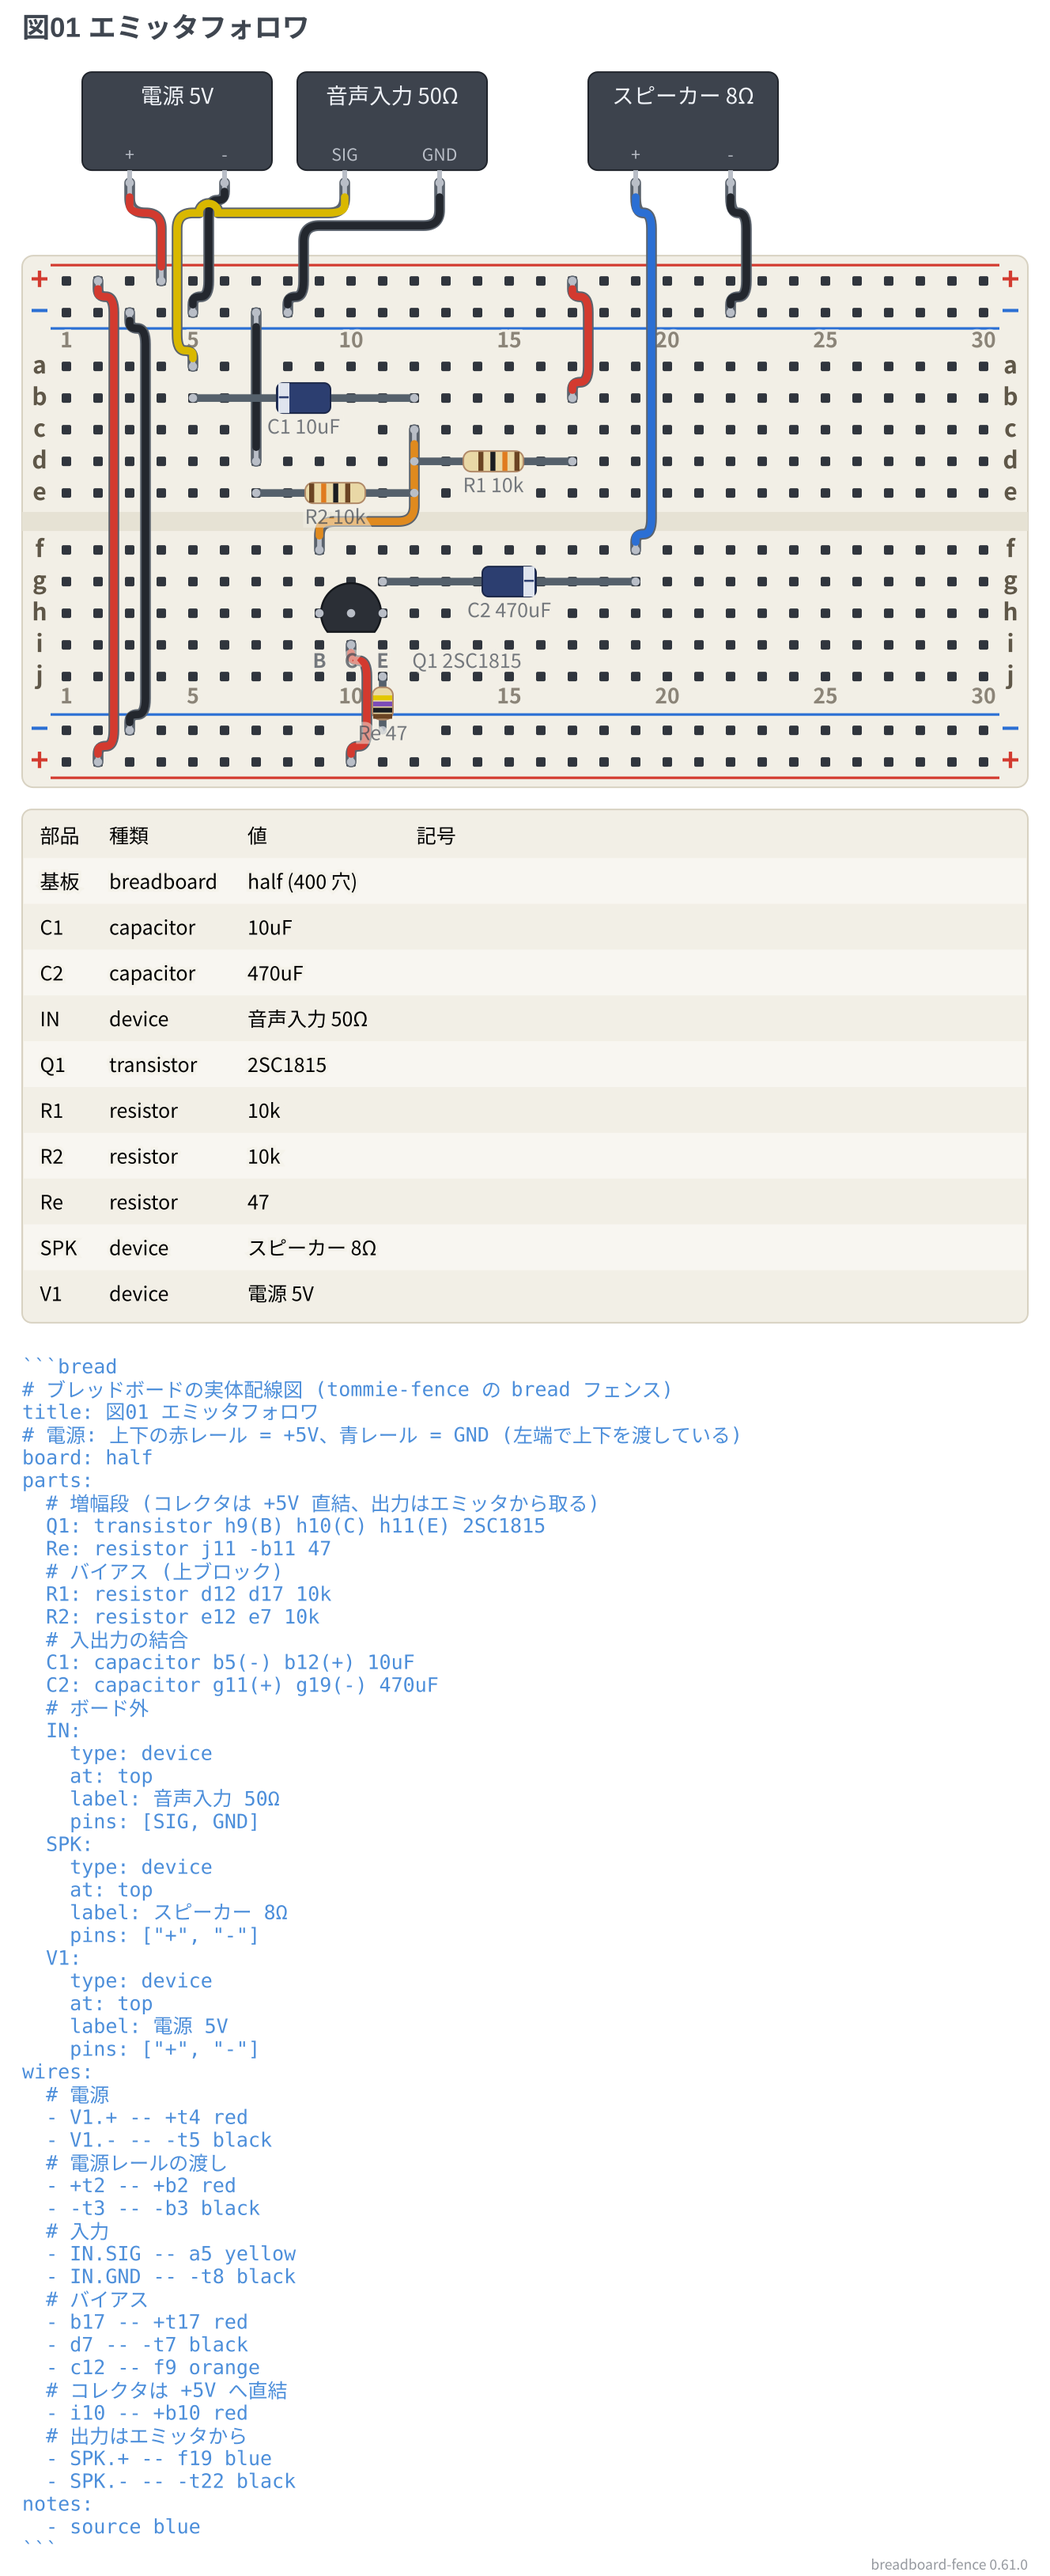
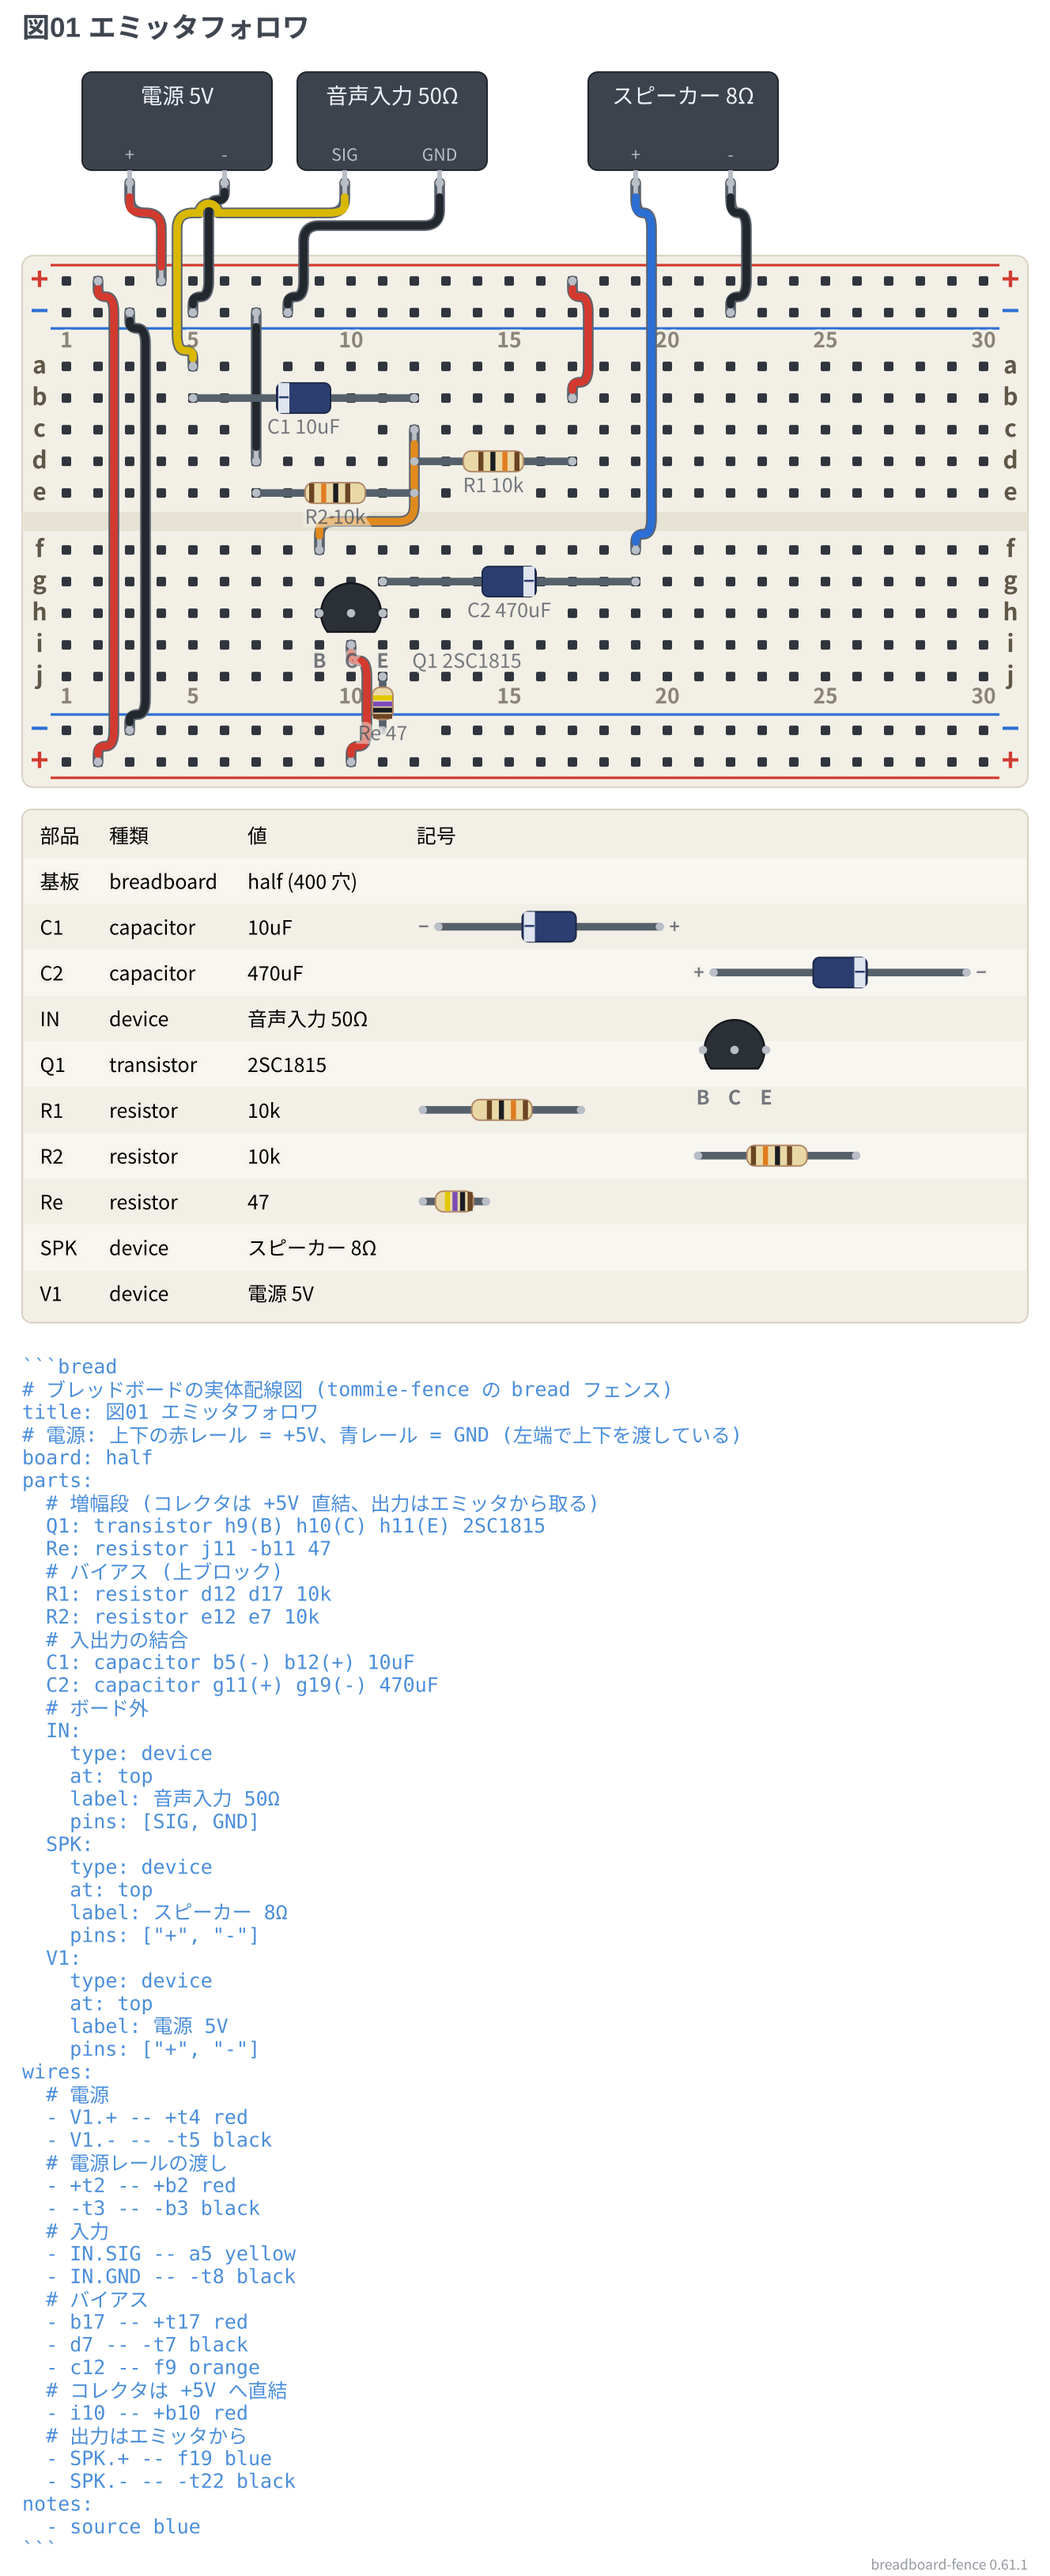
fix: 部品表の記号の欄が空になる件と、短いフィルムの刷り込みの抜けを直す
長い部品があると絵の 2 列が表の幅に収まらず、全部の絵を消していた。
収まらないときは長い部品のリードを詰め、それでも入らなければ値の欄の
長い説明を切る。列の幅は左右それぞれの列にある絵だけで測る。
レールと行の間に縦に挿したフィルムコンデンサは、字を小さくして刷る。

🤖 Generated with [Claude Code](https://claude.com/claude-code)

diff --git a/packages/breadboard-fence/src/core/render/partsList.ts b/packages/breadboard-fence/src/core/render/partsList.ts
@@ -2,7 +2,7 @@ import { PARTS_SYMBOL_HEADING_BY_LANG, bandColor, partKind, partsMark, valueWith
 import type { Lang, PartsMark } from 'fence-kit';
 import type { Layout } from '../model/layout.ts';
 import { partsLabels } from './labels.ts';
-import { partsIcon } from './partsListIcons.ts';
+import { partsIcon, partsIconsWithin } from './partsListIcons.ts';
 import type { PartsIcon } from './partsListIcons.ts';
 import { LIMITS } from '../limits.ts';
 import { fit, textWidth } from './textFit.ts';
@@ -43,6 +43,18 @@ const SYMBOL_LINE_RATIO = 1.5;
  * (実機で「次の行は水平にずらし、2 行の高さで」と頼まれた。1 行の高さでは刷り込みが読めなかった)。
  */
 const ICON_ROWS = 2;
+
+/**
+ * 絵を入れるために値の欄を切るときの下限 (字の大きさに対する比)。`Analog Discovery 3` が切れずに読める幅。
+ * これより狭くしないと絵が入らない図は、値を読めるほうを取って絵の欄を空ける。
+ */
+const MIN_VALUE_WIDTH = 10;
+
+/** 値の欄の幅の候補。今の幅から下限まで 1 字ぶんずつ。 */
+const valueCandidates = (full: number): readonly number[] => [
+  full,
+  ...Array.from({ length: Math.max(0, Math.floor(full - MIN_VALUE_WIDTH)) }, (_, index) => full - index - 1),
+];
 
 /** 同じ列の上下の絵との間に残す隙間 (px)。 */
 const ICON_CLEARANCE = 1;
@@ -221,11 +233,11 @@ export function renderPartsList(
   // 表から部品を探すので名前の順に並べる (数字は数として: R2 の次は R10)。上限で切る前に並べる。
   const shown = shownOf(parts);
   const icons = iconsOf(shown, layout, theme, mode);
-  const listed = rowsOf(shown, lang).map((row, index) => (symbols ? { ...row, icon: icons[index] ?? null } : row));
+  const listed = rowsOf(shown, lang);
   const hidden = parts.length - listed.length;
   // 先頭は見出し。基板は最初に用意する物なので、名前の順には入れず見出しのすぐ下に置く。上限の数にも数えない。
   const heading = headingRow(lang);
-  const rows = [
+  const textRows: readonly Row[] = [
     symbols ? { ...heading, mark: PARTS_SYMBOL_HEADING_BY_LANG[lang] } : heading,
     ...(board === null ? [] : [boardRow(board, lang)]),
     ...listed,
@@ -238,7 +250,7 @@ export function renderPartsList(
   // 基板は基板と同じ色で塗る。`board-color` を変えたときに印字の色が追従する仕掛け
   // (theme.ts の inkFor) にそのまま相乗りできるため。字の縁取りは cell が敷く。
   const plate = element('rect', {
-    x: num(x), y: num(y), width: num(width), height: num(plateHeight(rows.length + (hidden === 0 ? 0 : 1), theme, mode, hidden === 0 ? icons : [...icons, null], atLeast)), rx: 6,
+    x: num(x), y: num(y), width: num(width), height: num(plateHeight(textRows.length + (hidden === 0 ? 0 : 1), theme, mode, hidden === 0 ? icons : [...icons, null], atLeast)), rx: 6,
     fill: palette.plate, stroke: palette.plateEdge,
   });
 
@@ -251,27 +263,52 @@ export function renderPartsList(
   // ID は図の部品と突き合わせるための鍵なので切らない。フェンスから来る ID は
   // 英数字 32 文字までで、いちばん狭い基板でも収まる (room はコアの API を直に
   // 呼ばれたときの保険で、フェンス経由では効かない)。
-  const idWidth = Math.min(widest(rows.map((row) => row.id)), room(idX));
+  const idWidth = Math.min(widest(textRows.map((row) => row.id)), room(idX));
 
   const typeX = idX + (idWidth + COLUMN_GAP) * textSize;
   const typeRoom = room(typeX);
-  const typeWidth = Math.min(widest(rows.map((row) => row.type)), MAX_TYPE_WIDTH, typeRoom);
+  const typeWidth = Math.min(widest(textRows.map((row) => row.type)), MAX_TYPE_WIDTH, typeRoom);
 
   const valueX = typeX + (typeWidth + COLUMN_GAP) * textSize;
   const valueRoom = room(valueX);
-  const valueWidth = Math.min(widest(rows.map((row) => row.value)), valueRoom);
+  const fullValueWidth = Math.min(widest(textRows.map((row) => row.value)), valueRoom);
+
+  // 絵は行の偶奇で左右の列に分かれる。列の幅はそれぞれの列にある絵だけで測る。
+  const listedFrom = textRows.length - listed.length;
+  const iconColumns = (candidates: readonly (PartsIcon | null)[]): readonly [number, number] => {
+    const widthOn = (parity: number): number => Math.max(0, ...candidates
+      .filter((_, offset) => (offset + listedFrom) % 2 === parity)
+      .map((icon) => icon?.width ?? 0));
+    return [widthOn(0), widthOn(1)];
+  };
+  const markRoomFor = (value: number): number => room(valueX + (value + COLUMN_GAP) * textSize);
+  const iconsFitIn = (candidates: readonly (PartsIcon | null)[], markSpace: number): boolean => {
+    const [left, right] = iconColumns(candidates);
+    return (left + right) / textSize + ICON_COLUMN_GAP <= markSpace;
+  };
+  const iconsAt = (value: number): readonly (PartsIcon | null)[] =>
+    partsIconsWithin(shown, layout as Layout, theme, (candidates) => iconsFitIn(candidates, markRoomFor(value)));
+  // リードを詰めても入らない図だけ、値の欄の長い説明を 1 字ぶんずつ切っていく。
+  const valueWidth = symbols
+    ? valueCandidates(fullValueWidth).find((value) => iconsFitIn(iconsAt(value), markRoomFor(value))) ?? fullValueWidth
+    : fullValueWidth;
 
   const markX = valueX + (valueWidth + COLUMN_GAP) * textSize;
   const markRoom = room(markX);
+  const fitted = symbols ? iconsAt(valueWidth) : [];
+  const rows: readonly Row[] = textRows.map((row, index) =>
+    symbols && index >= listedFrom ? { ...row, icon: fitted[index - listedFrom] ?? null } : row);
 
   const baselineOf = (index: number): number => y + pad + textSize * CAP_RATIO + line * index;
   /**
    * 絵は基板と同じ大きさのまま、その行の字の高さの真ん中に合わせて置く。
-   * 行の番号の偶奇で左右の列を替える (インターリーブ)。右の列は、いちばん幅のある絵の右から。
+   * 行の番号の偶奇で左右の列を替える (インターリーブ)。右の列は、左の列でいちばん幅のある絵の右から。
    */
-  const widestIcon = Math.max(0, ...rows.map((row) => row.icon?.width ?? 0));
-  const secondX = markX + widestIcon + ICON_COLUMN_GAP * textSize;
-  const iconsFit = (secondX + widestIcon - markX) / textSize <= markRoom;
+  // 右の列は普段は「いちばん幅のある絵」の右に置く。それでは入らない図だけ、左の列の幅まで寄せる。
+  const widestIcon = Math.max(...iconColumns(fitted));
+  const leftColumn = (widestIcon * 2) / textSize + ICON_COLUMN_GAP <= markRoom ? widestIcon : iconColumns(fitted)[0];
+  const secondX = markX + leftColumn + ICON_COLUMN_GAP * textSize;
+  const iconsFit = iconsFitIn(fitted, markRoom);
   const placeIcon = (icon: PartsIcon, index: number): string => {
     const top = baselineOf(index) - (textSize * CAP_RATIO) / 2 - icon.height / 2;
     const left = index % 2 === 0 ? markX : secondX;
@@ -300,7 +337,7 @@ export function renderPartsList(
       ...(typeRoom < MIN_COLUMN_WIDTH ? [] : [cell(typeX, baseline, fit(row.type, typeWidth), ink)]),
       ...(row.value === '' || valueRoom < MIN_COLUMN_WIDTH
         ? []
-        : [cell(valueX, baseline, fit(row.value, valueRoom), ink)]),
+        : [cell(valueX, baseline, fit(row.value, valueWidth), ink)]),
       ...(row.icon !== undefined
         ? (row.icon === null || !iconsFit ? [] : [placeIcon(row.icon, index)])
         : row.mark.length === 0 || markRoom < MIN_COLUMN_WIDTH || markWidth(row.mark) > markRoom

diff --git a/packages/breadboard-fence/src/core/render/partsListIcons.ts b/packages/breadboard-fence/src/core/render/partsListIcons.ts
@@ -59,6 +59,18 @@ function lieFlat(part: PlacedPart, layout: Layout): PlacedPart {
   };
 }
 
+/**
+ * 横に寝かせた 2 ピンの間を `maxSpan` 穴まで詰める。胴の大きさはこの範囲で変わらない
+ * (リードが短くなるだけ) ので、絵の高さと行の送りも変わらない。番地は表の絵のためだけのもの。
+ */
+function withinSpan(part: PlacedPart, maxSpan: number): PlacedPart {
+  if (part.kind !== 'two-lead' || part.pins.length !== 2) return part;
+  const [a, b] = part.pins.map((pin) => pin.address);
+  if (a?.kind !== 'hole' || b?.kind !== 'hole' || a.row !== b.row || Math.abs(b.col - a.col) <= maxSpan) return part;
+  const col = a.col + Math.sign(b.col - a.col) * maxSpan;
+  return { ...part, pins: part.pins.map((pin, index) => (index === 1 ? { ...pin, address: { ...b, col } } : pin)) };
+}
+
 const union = (rects: readonly Rect[]): Rect | null => {
   if (rects.length === 0) return null;
   const left = Math.min(...rects.map((rect) => rect.x));
@@ -167,9 +179,9 @@ const poleText = (pole: Pole, theme: RenderTheme): string =>
  * 表に置く絵。描かない種類 (機器と DIP と、Pico などのマイコンボード — 型番の欄で足り、絵は幅を
  * 取りすぎる。ボードは 1 つで全部の行の送りを広げてしまう) と、番地の決まらない部品は null。
  */
-export function partsIcon(part: PlacedPart, layout: Layout, theme: RenderTheme): PartsIcon | null {
+export function partsIcon(part: PlacedPart, layout: Layout, theme: RenderTheme, maxSpan = Infinity): PartsIcon | null {
   if (part.kind === 'device' || part.kind === 'dip' || part.kind === 'board') return null;
-  const flat = lieFlat(part, layout);
+  const flat = withinSpan(lieFlat(part, layout), maxSpan);
   const poles = polePlaces(flat, layout, theme);
   const box = boxOf(flat, layout, theme, poles);
   if (box === null) return null;
@@ -180,4 +192,25 @@ export function partsIcon(part: PlacedPart, layout: Layout, theme: RenderTheme):
     width: box.width,
     height: box.height,
   };
+}
+
+/** これより短くするとリードが胴に隠れて、部品の姿が基板と違って見える。 */
+const MIN_ICON_SPAN = 3;
+
+/**
+ * 表の欄に収まる絵 (収まるかは `fits` が決める)。長い部品が 1 つあるだけで全部の絵が欄から消えないよう、
+ * 収まらないときは**長い部品のリードだけ**を、収まるぎりぎりの長さまで詰める。
+ * 詰めても収まらなければそのままの絵を返す (表の側で欄を空ける)。
+ */
+export function partsIconsWithin(
+  parts: readonly PlacedPart[],
+  layout: Layout,
+  theme: RenderTheme,
+  fits: (icons: readonly (PartsIcon | null)[]) => boolean,
+): readonly (PartsIcon | null)[] {
+  const drawn = (maxSpan?: number) => parts.map((part) => partsIcon(part, layout, theme, maxSpan));
+  const natural = drawn();
+  if (fits(natural)) return natural;
+  const spans = Array.from({ length: Math.max(0, layout.columns - MIN_ICON_SPAN + 1) }, (_, index) => layout.columns - index);
+  return spans.map((span) => drawn(span)).find(fits) ?? natural;
 }

diff --git a/packages/fence-kit/src/parts/bodies.ts b/packages/fence-kit/src/parts/bodies.ts
@@ -131,15 +131,20 @@ function resistorBody(part: BodyPart, span: number, ink: BodyInk): string {
  * **無極性のもの (セラミック・フィルム) にだけ刷る。** 実物の電解とタンタルは
  * 容量をそのまま (`100µF`) 刷るので、3 桁コードを載せると別物の顔になる。
  *
- * 胴に入らない幅では刷らない — 切れた `104` は `10` (= 10pF) に読める。
+ * 字の大きさは候補を大きい順に試す。どれも胴に入らない幅では刷らない —
+ * 切れた `104` は `10` (= 10pF) に読める。
  */
-function capacitorCodeOn(part: BodyPart, room: number, size: number, ink: BodyInk): string {
+function capacitorCodeOn(part: BodyPart, room: number, sizes: readonly number[], ink: BodyInk): string {
   const farads = part.value ? parsePicofarads(part.value) : null;
   const code = farads === null ? null : capacitorCode(farads);
-  if (code === null || room < size * code.length * 0.7) return '';
+  const size = code === null ? undefined : sizes.find((candidate) => room >= candidate * code.length * 0.7);
+  if (code === null || size === undefined) return '';
 
   return svgText(0, size * 0.35, code, { 'font-size': num(size), fill: ink.paint('#4a3208') });
 }
+
+/** フィルムの胴の字。短い胴 (レールと行の間に縦に挿した物) はセラミックと同じ大きさまで落とす。 */
+const FILM_CODE_SIZES = [9, 7] as const;
 
 /** フィルム・積層セラミックの角い胴。無極性のコンデンサの既定の姿。 */
 function filmCapBody(part: BodyPart, span: number, ink: BodyInk): string {
@@ -148,7 +153,7 @@ function filmCapBody(part: BodyPart, span: number, ink: BodyInk): string {
     x: num(-width / 2), y: -8, width: num(width), height: 16, rx: 3,
     fill: ink.paint('#e3a72f'), stroke: ink.paint('#9c6f10'),
   });
-  return shell + capacitorCodeOn(part, width - 4, 9, ink);
+  return shell + capacitorCodeOn(part, width - 4, FILM_CODE_SIZES, ink);
 }
 
 /**
@@ -161,7 +166,7 @@ function ceramicCapBody(part: BodyPart, span: number, ink: BodyInk): string {
     cx: 0, cy: 0, r: num(radius), fill: ink.paint('#d18b3c'), stroke: ink.paint('#8a5a22'),
   });
   // 円板は狭いので字も一回り小さく。入らなければ刷らない。
-  return shell + capacitorCodeOn(part, radius * 1.9, 7, ink);
+  return shell + capacitorCodeOn(part, radius * 1.9, [7], ink);
 }
 
 /** 電解の缶。マイナス側に帯を描く。逆挿しは壊れるので目立たせる。 */

diff --git a/packages/breadboard-fence/src/core/render/partsListSymbols.test.ts b/packages/breadboard-fence/src/core/render/partsListSymbols.test.ts
@@ -17,6 +17,47 @@ const source = (mode: string | null) => fence(
 const listOf = (svg: string): string => svg.slice(svg.indexOf('部品'));
 
 describe('parts-list: symbols', () => {
+  test('long parts keep the drawings: the leads shorten until the two columns fit', () => {
+    const { svg, errors } = renderBreadboard(fence(
+      'board: half',
+      'parts:',
+      '  C3: capacitor/film g9 g17 1u',
+      '  C4: capacitor/film j13 j21 1u',
+      '  D1: diode b9 b13 1N4148',
+      '  R1: resistor d21 d25 100k',
+      '  AD:',
+      '    type: device',
+      '    at: top',
+      '    label: Analog Discovery 3',
+      '    pins: [2+, W1, GND, 2-, 1+, 1-]',
+    ));
+    expect(errors).toEqual([]);
+    expect(listOf(svg).match(/class="bf-parts-icon"/g)).toHaveLength(4);
+  });
+
+  test('a long device description is cut so the drawings still fit', () => {
+    const { svg, errors } = renderBreadboard(fence(
+      'board: half',
+      'parts:',
+      '  R1: resistor a5 a10 10k',
+      '  R2: resistor c5 c10 10k',
+      '  C1: capacitor/electrolytic e5(+) e9(-) 100uF',
+      '  AD:',
+      '    type: device',
+      '    at: top',
+      '    label: Analog Discovery (Supplies V+ と Scope と Wavegen の両方)',
+      '    pins: [V+, GND]',
+    ));
+    expect(errors).toEqual([]);
+    expect(listOf(svg).match(/class="bf-parts-icon"/g)).toHaveLength(3);
+  });
+
+  test('a film capacitor between a row and the rail still carries its code', () => {
+    const { svg, errors } = renderBreadboard(fence('board: half', 'parts:', '  C2: capacitor/film a13 -t13 1u'));
+    expect(errors).toEqual([]);
+    expect(svg.slice(0, svg.indexOf('部品')).match(/>105</g)).toHaveLength(1);
+  });
+
   test('the last heading reads 記号 and the table draws the parts as in the figure', () => {
     const { svg, errors } = renderBreadboard(source('symbols'));
     expect(errors).toEqual([]);

diff --git a/packages/breadboard-fence/CHANGELOG.md b/packages/breadboard-fence/CHANGELOG.md
@@ -5,6 +5,11 @@
 
 ## [Unreleased]
 
+### Fixed
+
+- **部品表の記号の欄が空になることがあった。** 長い部品があると絵の 2 列が表の幅に収まらず、全部の絵が消えていた。収まらないときは長い部品のリードを詰め、それでも入らなければ値の欄の長い説明を切る
+- **レールと行の間に縦に挿したフィルムコンデンサに、刷り込み (`105`) が出なかった。** 短い胴では字を小さくして刷る
+
 ## [0.61.1] - 2026-11-08
 
 ### Fixed
